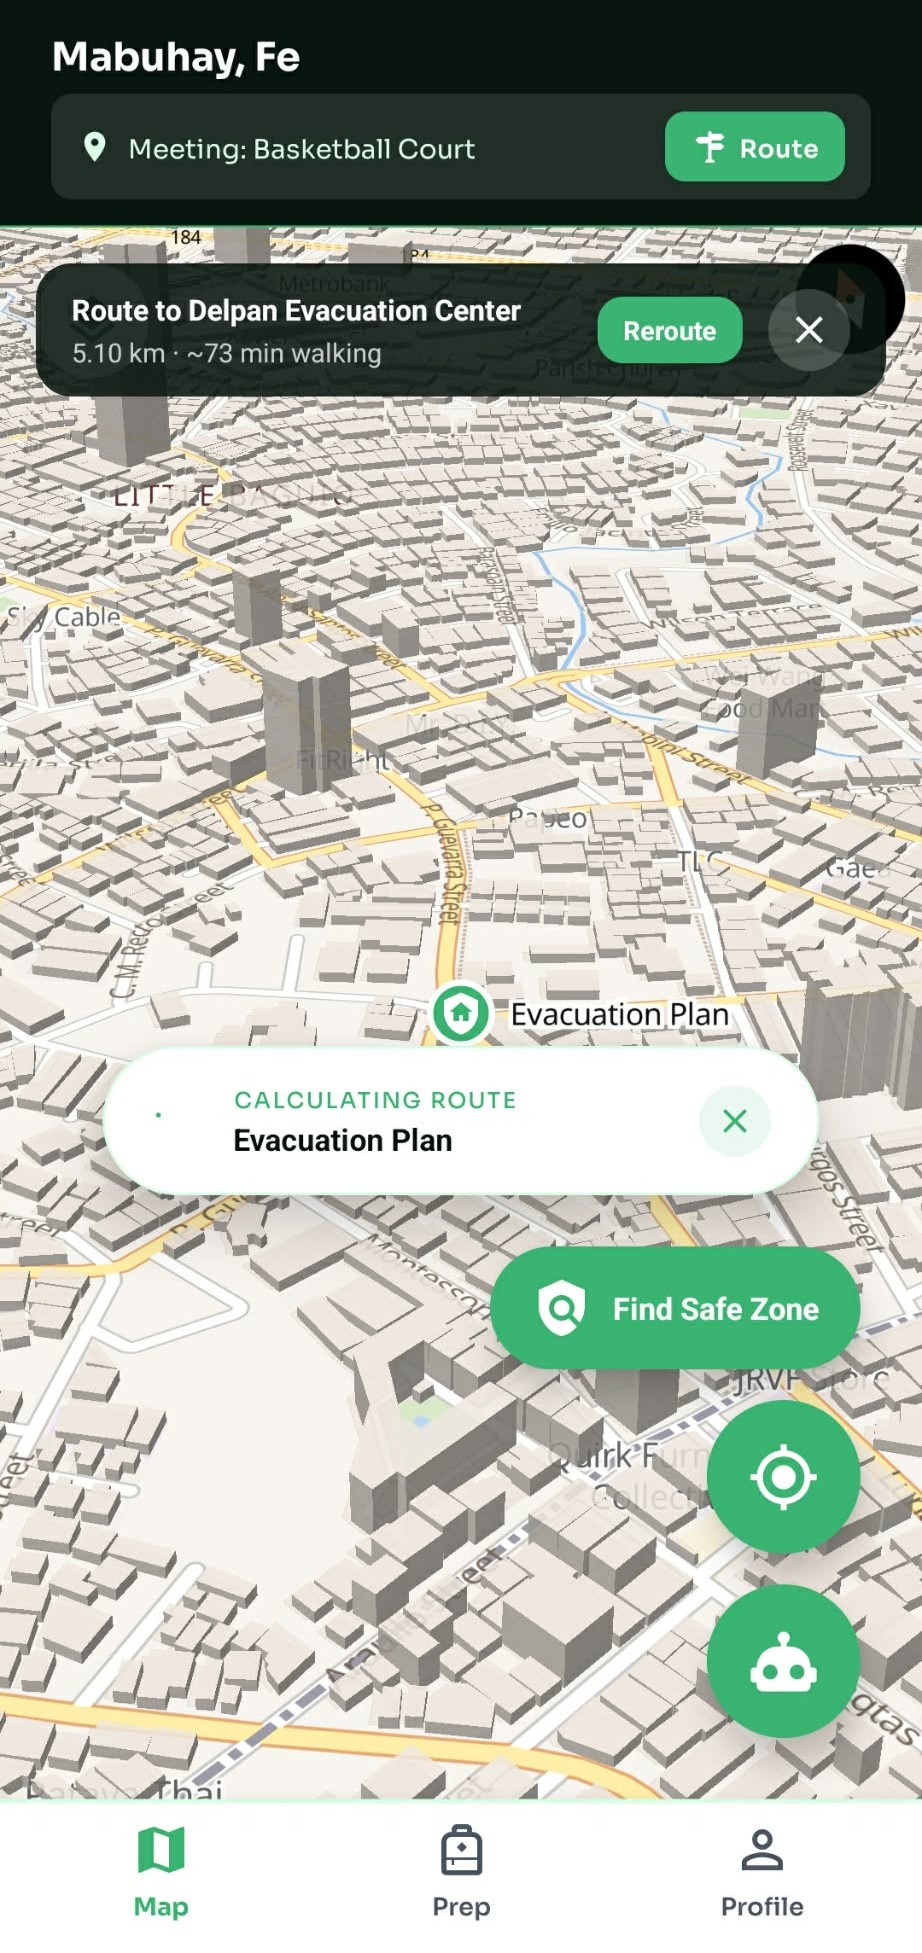
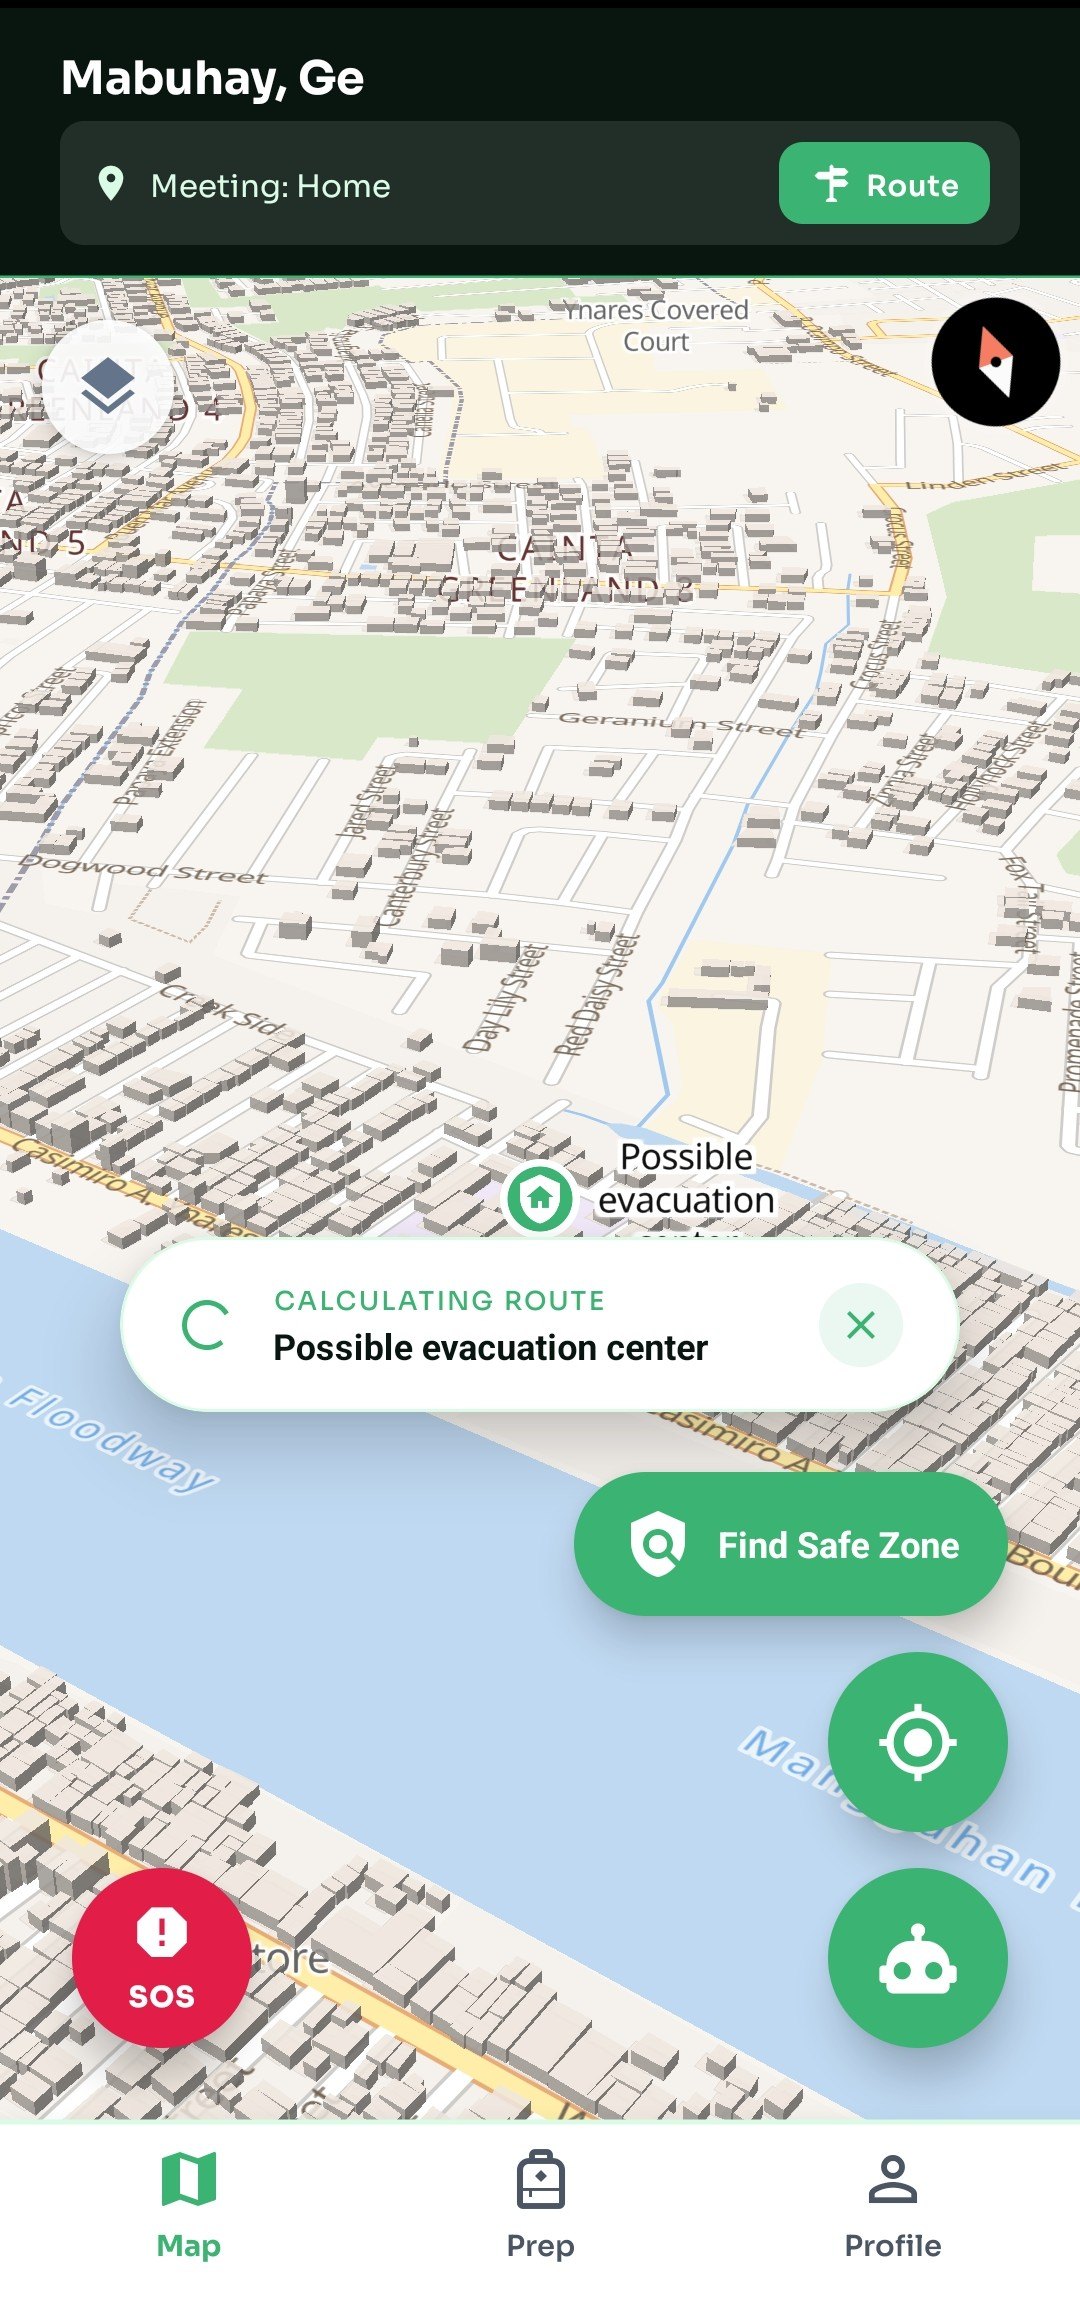
feat(landing): update mockup images and add video thumbnail functionality (#24)

diff --git a/likas-web/src/app/page.tsx b/likas-web/src/app/page.tsx
@@ -194,9 +194,10 @@ const team = [
   },
 ];
 
-const youtubeEmbedUrl = "";
-const heroRouteMockup = "/mockups/hero_route.png";
-const heroAssistantMockup = "/mockups/hero_assistant.png";
+const youtubeEmbedUrl =
+  "https://drive.google.com/file/d/18ijXh90RTpf56Dx2Lop7UmW-MI4tgnwO/preview";
+const heroRouteMockup = "/mockups/mockup_1.jpg";
+const heroAssistantMockup = "/mockups/mockup_5.jpg";
 
 const navItems = [
   { href: "#features", label: "Features", icon: ShieldCheck },
@@ -502,6 +503,7 @@ function PhoneMockup({
 
 export default function Home() {
   const [activeSection, setActiveSection] = useState("top");
+  const [showVideo, setShowVideo] = useState(false);
   const { scrollYProgress } = useScroll();
   const progressWidth = useTransform(scrollYProgress, [0, 1], ["0%", "100%"]);
   const heroY = useTransform(scrollYProgress, [0, 0.35], [0, 74]);
@@ -650,7 +652,7 @@ export default function Home() {
             />
             <Reveal delay={0.08} className="lg:col-start-1">
               <a
-                href="/downloads/likas.apk"
+                href="https://cdn.likas-ai.com/apk/likas_v1.0.apk"
                 download
                 className={buttonVariants({
                   size: "lg",
@@ -668,13 +670,37 @@ export default function Home() {
               <div className="absolute inset-0 bg-[radial-gradient(circle_at_30%_20%,rgba(116,231,184,0.42),transparent_32%),linear-gradient(135deg,#10251b,#04120c)]" />
               <div className="absolute inset-0 opacity-30 bg-[linear-gradient(90deg,rgba(255,255,255,0.12)_1px,transparent_1px),linear-gradient(0deg,rgba(255,255,255,0.12)_1px,transparent_1px)] bg-[size:42px_42px]" />
               {youtubeEmbedUrl ? (
-                <iframe
-                  className="absolute inset-0 z-0 h-full w-full"
-                  src={youtubeEmbedUrl}
-                  title="LIKAS YouTube demo"
-                  allow="accelerometer; autoplay; clipboard-write; encrypted-media; gyroscope; picture-in-picture; web-share"
-                  allowFullScreen
-                />
+                showVideo ? (
+                  <iframe
+                    className="absolute inset-0 z-0 h-full w-full"
+                    src={`${youtubeEmbedUrl}?autoplay=1`}
+                    title="LIKAS demo"
+                    allow="accelerometer; autoplay; clipboard-write; encrypted-media; gyroscope; picture-in-picture; web-share"
+                    allowFullScreen
+                  />
+                ) : (
+                  <div
+                    className="absolute inset-0 z-0 grid place-items-center cursor-pointer"
+                    role="button"
+                    tabIndex={0}
+                    onClick={() => setShowVideo(true)}
+                    onKeyDown={(e) => {
+                      if (e.key === "Enter" || e.key === " ")
+                        setShowVideo(true);
+                    }}
+                  >
+                    <img
+                      src="/thumbnail.svg"
+                      alt="LIKAS product demo thumbnail"
+                      className="absolute inset-0 h-full w-full p-16 object-contain opacity-90 transition-transform duration-500 group-hover:scale-105"
+                    />
+                    <div className="relative z-10 text-center text-white">
+                      <div className="mx-auto mb-5 grid size-24 place-items-center rounded-full bg-white text-emerald-700 shadow-2xl">
+                        <Play className="ml-1 size-9 fill-emerald-700" />
+                      </div>
+                    </div>
+                  </div>
+                )
               ) : (
                 <div className="absolute inset-0 z-0 grid place-items-center">
                   <div className="text-center text-white">
@@ -991,7 +1017,7 @@ export default function Home() {
                 <Separator className="my-6 bg-white/10" />
                 <Reveal delay={0.08} className="lg:col-start-1">
                   <a
-                    href="/downloads/likas.apk"
+                    href="https://cdn.likas-ai.com/apk/likas_v1.0.apk"
                     download
                     className={buttonVariants({
                       size: "lg",